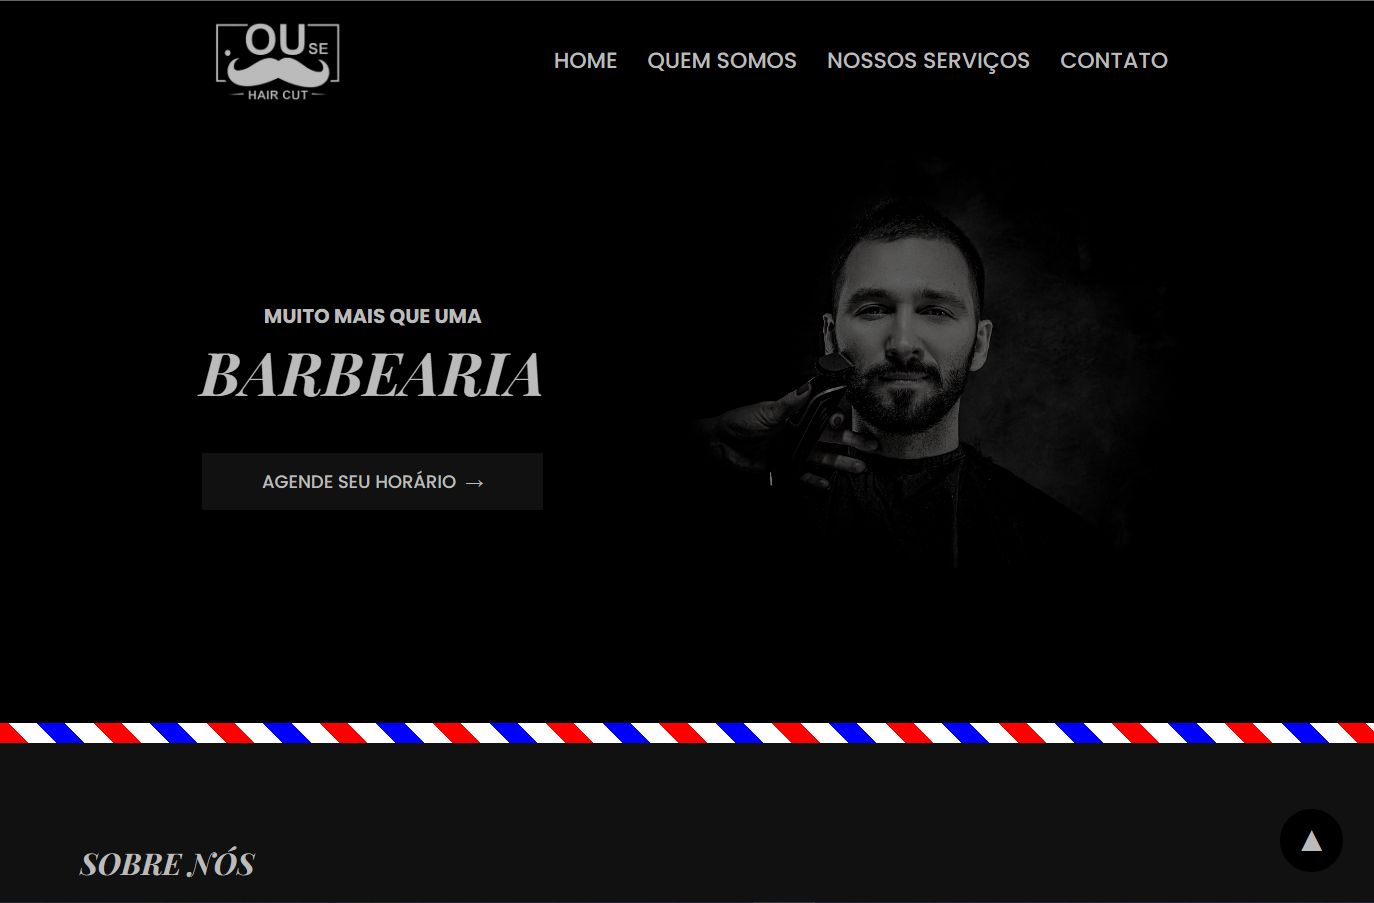
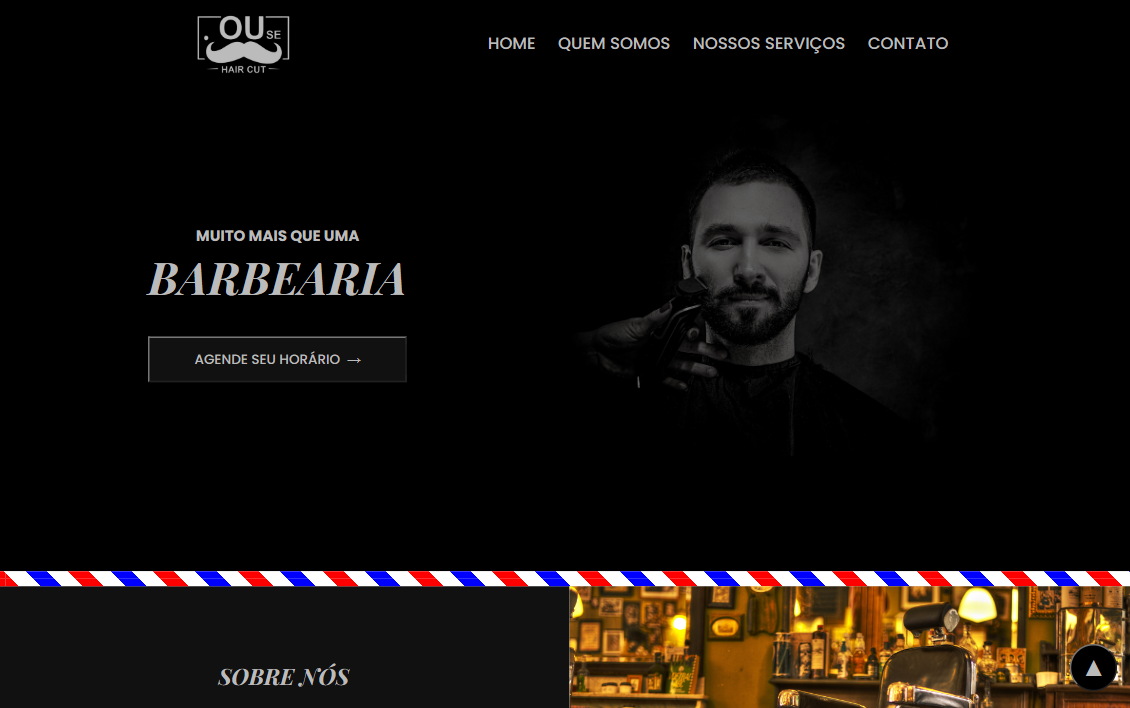
adicionado card ouse barbearia

diff --git a/index.html b/index.html
@@ -126,19 +126,19 @@
           </div>
         </div>
         <div class="projects-card">
-          <div class="card-img border-radius-above">
+          <div class="card-img border-radius-above ouse">
             <div class="card-overlay hidden border-radius-above">
-              <a href="" class="overlay-img">
+              <a href="https://github.com/ghenriquev/ouse_barbearia" class="overlay-img">
                 <img src="./assets/github3.png" alt="Ícone do GitHub">
               </a>
-              <a href="" class="overlay-img">
+              <a href="https://ghenriquev.github.io/ouse_barbearia/" class="overlay-img">
                 <img src="./assets/link.png" alt="Ícone de link">
               </a>
             </div>
           </div>
           <div class="card-description border-radius-below">
-            <h5></h5>
-            <p></p>
+            <h5>Ouse Barbearia</h5>
+            <p>Landing page criada para a Ouse Barbearia, utilizando conhecimentos em HTML e CSS.</p>
           </div>
         </div>
         <div class="projects-card">

diff --git a/styles/styles.css b/styles/styles.css
@@ -358,8 +358,11 @@ section#projects {
   background-image: url(../assets/habits.PNG);
 }
 
+.ouse {
+  background-image: url(../assets/ouse.PNG);
+}
+
 .card-img {
-  /* background-image: url(../assets/habits.PNG); */
   height: 25rem;
   background-size: cover;
   background-repeat: no-repeat;
